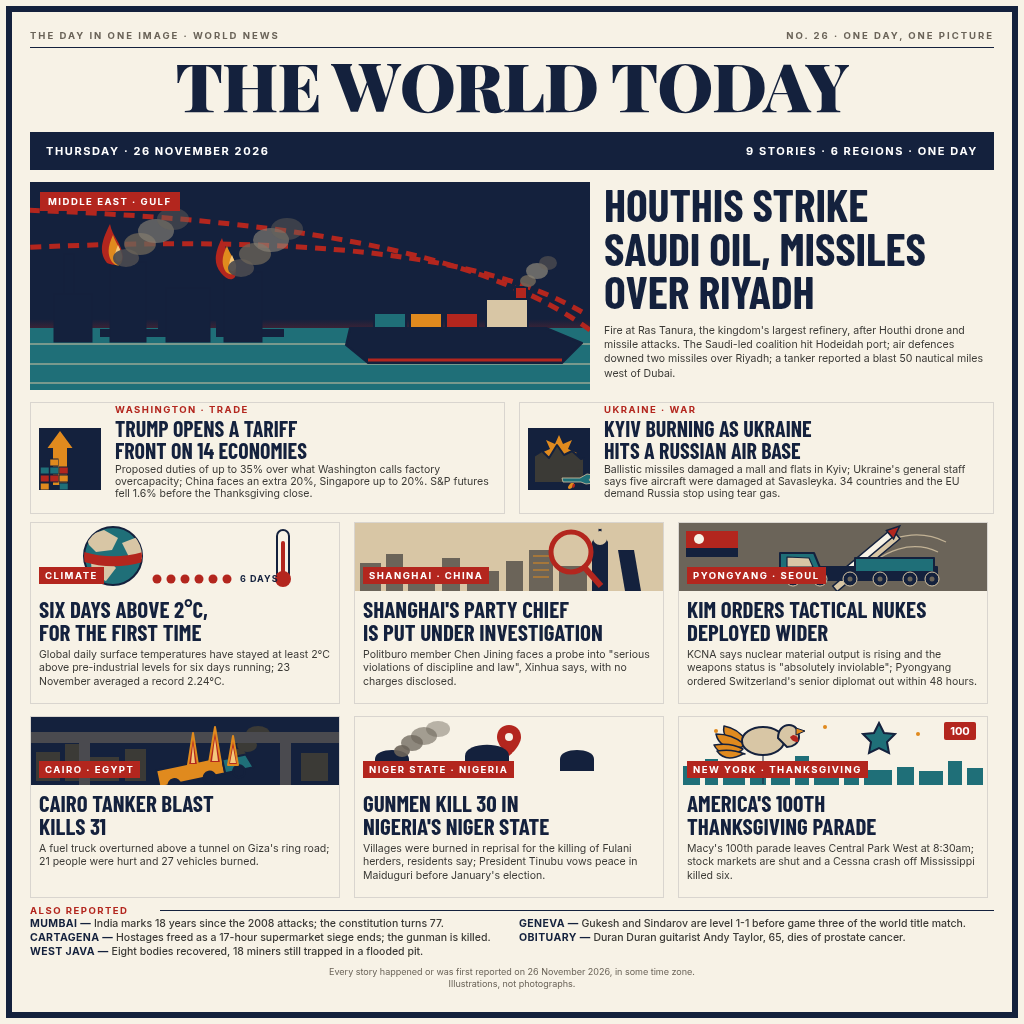
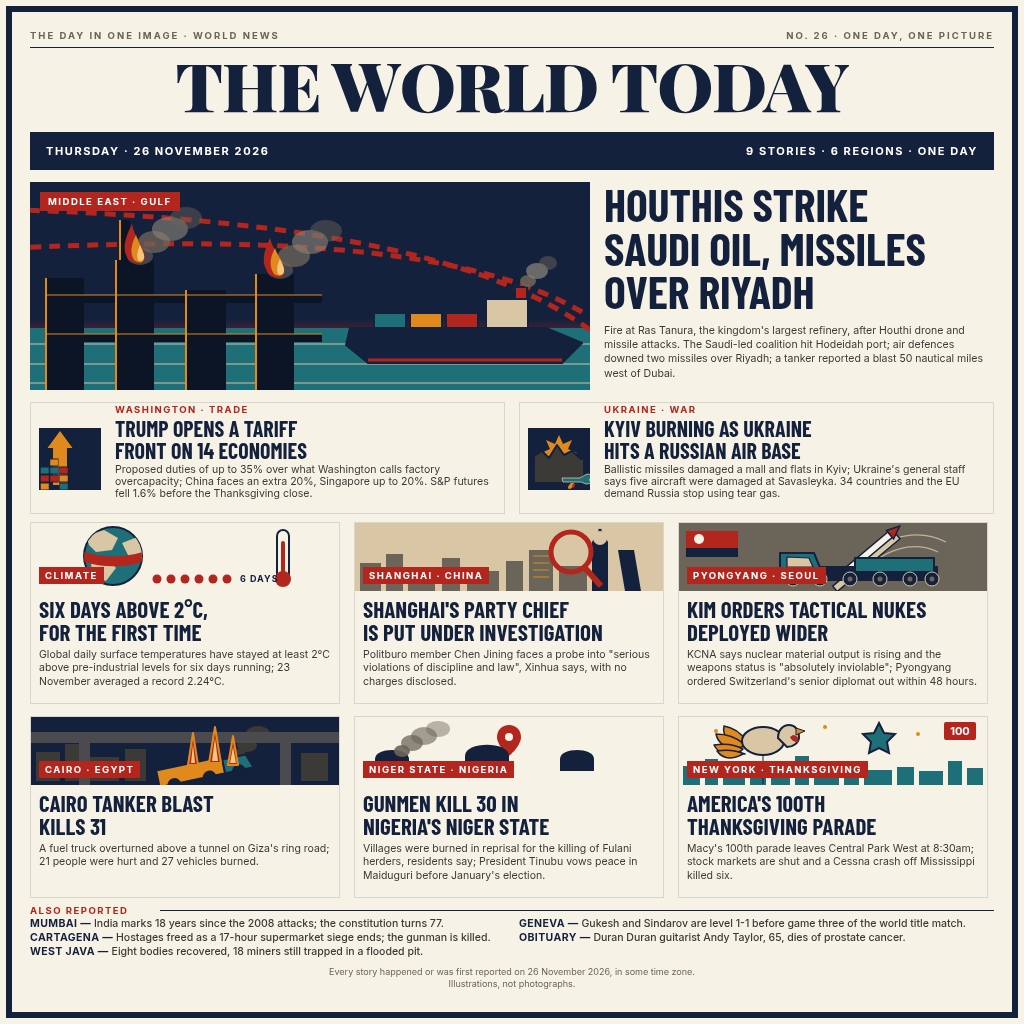
Restore the Gulf refinery silhouette
- Rebuild four tall dark towers with amber left rims, pipes and a chimney.
- Seat both flames exactly on the tallest roofs and retain their smoke columns.

Changed region(s): [[0.0312, 0.1875, 0.3438, 0.4062]]

diff --git a/src/entry.html b/src/entry.html
@@ -69,21 +69,23 @@ svg text{font-family:Inter,Arial,sans-serif}
         <rect y="146" width="560" height="62" fill="#1F6F78"/>
         <g stroke="#D8C6A5" stroke-width="1.5" opacity=".65"><path d="M0 162H560"/><path d="M0 182H560"/><path d="M0 201H560"/></g>
         <g fill="none" stroke="#B3261E" stroke-width="5" stroke-dasharray="11 8" marker-end="url(#missileArrow)"><path d="M560 148C470 82 302 38-10 28"/><path d="M552 130C452 72 278 52-16 66"/></g>
-        <g fill="#14213D" stroke="#14213D">
-          <path d="M48 131H105V105H166V130H216M70 151H132V135H190V151H254" fill="none" stroke-width="8"/>
-          <rect x="24" y="112" width="38" height="48"/><rect x="80" y="80" width="36" height="80"/><rect x="136" y="106" width="44" height="54"/><rect x="194" y="90" width="38" height="70"/><rect x="34" y="72" width="10" height="40"/>
+        <g fill="#0B1526">
+          <rect x="16" y="96" width="38" height="112"/><rect x="86" y="78" width="38" height="130"/><rect x="156" y="108" width="40" height="100"/><rect x="226" y="92" width="38" height="116"/><rect x="90" y="38" width="10" height="40"/>
+        </g>
+        <g fill="none" stroke="#0B1526" stroke-width="8"><path d="M16 156H292"/><path d="M16 117H292"/></g>
+        <g fill="none" stroke="#E08A1E" stroke-width="1"><path d="M16 152H292"/><path d="M16 113H292"/></g>
+        <g stroke="#E08A1E" stroke-width="2"><path d="M16 96V208"/><path d="M86 78V208"/><path d="M156 108V208"/><path d="M226 92V208"/><path d="M90 38V78"/></g>
+        <g>
+          <ellipse cx="110" cy="74" rx="13" ry="9" fill="#4A4A4F" opacity=".92"/><ellipse cx="124" cy="60" rx="16" ry="11" fill="#6B6459" opacity=".78"/><ellipse cx="140" cy="47" rx="18" ry="12" fill="#8A8578" opacity=".62"/><ellipse cx="156" cy="36" rx="16" ry="11" fill="#6B6459" opacity=".46"/>
+          <ellipse cx="250" cy="88" rx="13" ry="9" fill="#4A4A4F" opacity=".92"/><ellipse cx="264" cy="74" rx="16" ry="11" fill="#6B6459" opacity=".78"/><ellipse cx="280" cy="60" rx="18" ry="12" fill="#8A8578" opacity=".62"/><ellipse cx="296" cy="49" rx="16" ry="11" fill="#6B6459" opacity=".46"/>
         </g>
         <g>
-          <path d="M77 81C68 70 72 58 80 42c2 12 12 20 13 32 1 8-7 11-16 7Z" fill="#B3261E"/>
-          <path d="M82 80c-6-9-3-18 1-27 3 9 9 15 9 24 0 7-5 9-10 3Z" fill="#E08A1E"/>
-          <path d="M86 78c-2-5 0-10 2-15 2 5 5 9 4 14-1 3-4 4-6 1Z" fill="#F4C77B"/>
-          <path d="M191 91c-9-11-5-23 1-35 3 13 13 21 14 33 1 9-7 12-15 2Z" fill="#B3261E"/>
-          <path d="M196 90c-6-9-3-18 1-26 3 9 9 14 9 22 0 7-5 8-10 4Z" fill="#E08A1E"/>
-          <path d="M200 88c-2-5 0-11 2-15 2 6 5 9 4 13-1 3-4 4-6 2Z" fill="#F4C77B"/>
-        </g>
-        <g>
-          <ellipse cx="96" cy="76" rx="13" ry="9" fill="#4A4A4F" opacity=".92"/><ellipse cx="110" cy="62" rx="16" ry="11" fill="#6B6459" opacity=".78"/><ellipse cx="126" cy="49" rx="18" ry="12" fill="#8A8578" opacity=".62"/><ellipse cx="143" cy="37" rx="16" ry="11" fill="#6B6459" opacity=".46"/>
-          <ellipse cx="211" cy="86" rx="13" ry="9" fill="#4A4A4F" opacity=".92"/><ellipse cx="225" cy="72" rx="16" ry="11" fill="#6B6459" opacity=".78"/><ellipse cx="241" cy="58" rx="18" ry="12" fill="#8A8578" opacity=".62"/><ellipse cx="257" cy="47" rx="16" ry="11" fill="#6B6459" opacity=".46"/>
+          <path d="M99 78c-8-10-4-22 3-36 2 13 12 21 13 33 1 6-8 8-16 3Z" fill="#B3261E"/>
+          <path d="M104 78c-5-8-2-17 2-25 3 9 8 15 8 23 0 5-5 6-10 2Z" fill="#E08A1E"/>
+          <path d="M108 78c-2-5 0-10 2-15 2 6 5 9 4 13-1 3-4 4-6 2Z" fill="#F4C77B"/>
+          <path d="M239 92c-9-11-5-23 1-36 3 13 13 21 14 33 1 7-7 9-15 3Z" fill="#B3261E"/>
+          <path d="M244 92c-6-9-3-18 1-26 3 9 9 14 9 22 0 6-5 7-10 4Z" fill="#E08A1E"/>
+          <path d="M248 92c-2-5 0-11 2-15 2 6 5 9 4 13-1 3-4 4-6 2Z" fill="#F4C77B"/>
         </g>
         <g stroke="#14213D" stroke-width="2" stroke-linejoin="round">
           <path d="M320 146h196l36 15-20 20H338l-22-18Z" fill="#14213D"/>
